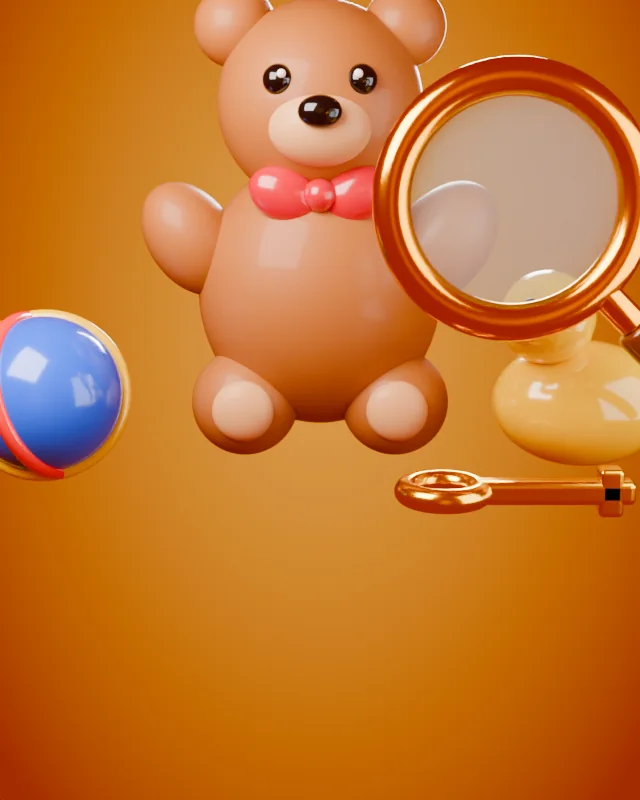
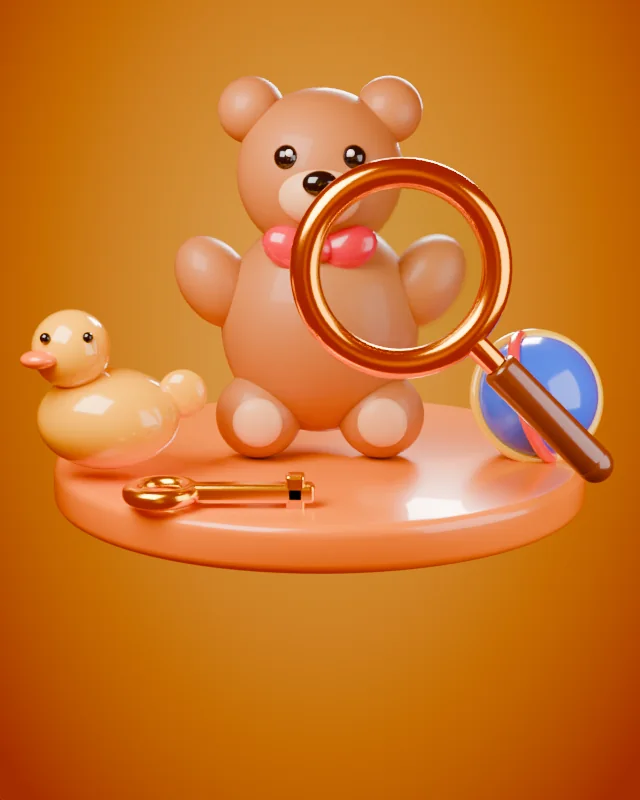
Covers: more renders (work in progress)
Claude-Session: https://claude.ai/code/session_01MHknEQHwoRP7PDrNv3vHVE

diff --git a/tools/covers/farm.py b/tools/covers/farm.py
@@ -1,0 +1,79 @@
+import sys, os
+sys.path.insert(0, os.path.dirname(os.path.abspath(__file__)))
+from rig import *
+S = int(os.environ.get('SAMPLES', 128))
+new_scene('#fff7b0', '#6fdc4a', samples=S)
+grass = glossy('#58d23c', 0.45, 0.4); dirt = glossy('#8a5a35', 0.5, 0.2)
+red = glossy('#e0302c', 0.2, 0.7); white = glossy('#fbf8f0', 0.3, 0.5); black = glossy('#23252b', 0.45, 0.3)
+yel = glossy('#ffc81e', 0.25, 0.6); glass = glossy('#8fd3ff', 0.05, 0.9); pink = glossy('#ffa9b8', 0.35, 0.4)
+roofm = glossy('#8c3a22', 0.3, 0.4); stem = glossy('#2f9a2b', 0.4, 0.3); brown = glossy('#6b3f1d', 0.5, 0.3)
+wheat = glossy('#f0c040', 0.4, 0.4); grey = glossy('#dfe6ee', 0.25, 0.6)
+objs = []
+objs.append(cylinder(3.5, 0.5, grass, (0, 0, -0.25), bevel=0.22, seg=96))
+objs.append(cylinder(3.35, 0.7, dirt, (0, 0, -0.8), bevel=0.15, seg=96))
+# barn
+b = []
+b.append(box((2.2, 1.7, 1.5), red, (0, 0, 0.75), bevel=0.06))
+roof_l = box((2.5, 1.2, 0.18), roofm, (0, -0.5, 1.75), rot=(40, 0, 0), bevel=0.03)
+roof_r = box((2.5, 1.2, 0.18), roofm, (0, 0.5, 1.75), rot=(-40, 0, 0), bevel=0.03)
+b += [roof_l, roof_r]
+b.append(box((0.9, 0.06, 1.0), white, (0, -0.87, 0.5), bevel=0.03))
+b.append(box((0.75, 0.04, 0.85), red, (0, -0.9, 0.5), bevel=0.02))
+for sx in (-1, 1):
+    b.append(box((0.08, 0.04, 1.0), white, (0, -0.92, 0.5), rot=(0, 0, 0), bevel=0.01))
+b.append(box((0.95, 0.06, 0.08), white, (0, -0.93, 0.5), rot=(0, 35, 0), bevel=0.01))
+b.append(box((0.95, 0.06, 0.08), white, (0, -0.93, 0.5), rot=(0, -35, 0), bevel=0.01))
+b.append(cylinder(0.2, 0.06, white, (0, -0.9, 1.3), rot=(90, 0, 0), bevel=0.02))
+silo = [cylinder(0.5, 2.0, grey, (1.7, 0.4, 1.0)), sphere(0.5, grey, (1.7, 0.4, 2.0), scale=(1, 1, 0.8))]
+objs.append(parent(b, loc=(-0.6, 1.4, 0), rot=(0, 0, 0)))
+objs.append(parent(silo))
+# tractor
+t = []
+t.append(box((1.3, 0.7, 0.45), red, (0.2, 0, 0.6), bevel=0.1))
+t.append(box((0.55, 0.62, 0.35), red, (0.75, 0, 0.9), bevel=0.1))
+t.append(box((0.65, 0.66, 0.65), glass, (-0.35, 0, 1.05), bevel=0.1))
+t.append(box((0.8, 0.8, 0.1), red, (-0.35, 0, 1.45), bevel=0.04))
+t.append(cylinder(0.04, 0.4, grey, (1.0, 0, 1.25), bevel=0.0))
+for sy in (-1, 1):
+    t.append(cylinder(0.62, 0.3, black, (-0.45, sy*0.55, 0.62), rot=(90, 0, 0), bevel=0.08))
+    t.append(cylinder(0.32, 0.32, yel, (-0.45, sy*0.55, 0.62), rot=(90, 0, 0), bevel=0.04))
+    t.append(cylinder(0.38, 0.24, black, (0.85, sy*0.45, 0.38), rot=(90, 0, 0), bevel=0.06))
+    t.append(cylinder(0.2, 0.26, yel, (0.85, sy*0.45, 0.38), rot=(90, 0, 0), bevel=0.03))
+objs.append(parent(t, loc=(-0.5, -1.5, 0.0), rot=(0, 0, -25), scale=1.2))
+# cow
+c = []
+c.append(box((1.1, 0.65, 0.65), white, (0, 0, 0.85), bevel=0.2))
+c.append(box((0.5, 0.5, 0.48), white, (0.7, 0, 1.05), bevel=0.14))
+c.append(box((0.3, 0.45, 0.2), pink, (0.97, 0, 0.95), bevel=0.08))
+for sy in (-1, 1):
+    c.append(sphere(0.07, black, (1.2, sy*0.12, 1.02)))
+    c.append(sphere(0.08, black, (0.9, sy*0.15, 1.27), scale=(1, 1, 1)))
+    c.append(cone(0.07, 0.0, 0.22, white, (0.65, sy*0.28, 1.4)))
+    c.append(box((0.22, 0.07, 0.14), pink, (0.65, sy*0.3, 1.13), bevel=0.03))
+for x in (-0.38, 0.38):
+    for sy in (-1, 1):
+        c.append(cylinder(0.1, 0.55, white, (x, sy*0.22, 0.3), bevel=0.03))
+        c.append(cylinder(0.11, 0.1, black, (x, sy*0.22, 0.05), bevel=0.02))
+c.append(sphere(0.2, black, (-0.2, 0.3, 1.0), scale=(1.3, 0.5, 1)))
+c.append(sphere(0.18, black, (0.2, -0.3, 1.1), scale=(1.2, 0.5, 1)))
+c.append(sphere(0.16, black, (-0.3, -0.3, 1.1), scale=(1.0, 0.5, 1)))
+c.append(cylinder(0.025, 0.5, black, (-0.62, 0, 0.9), rot=(0, 30, 0)))
+objs.append(parent(c, loc=(1.9, -1.4, 0), rot=(0, 0, -150), scale=1.1))
+# sunflowers
+def sunflower(x, y, h):
+    f = [cylinder(0.05, h, stem, (0, 0, h/2), bevel=0.0, seg=16)]
+    for i in range(12):
+        a = i * math.pi / 6
+        f.append(sphere(0.2, yel, (math.cos(a)*0.32, 0, h + math.sin(a)*0.32), scale=(0.6, 0.25, 1), rot=(0, -math.degrees(a)+90 if False else 0, 0)))
+        f[-1].rotation_euler = (0, -a + math.pi/2, 0)
+    f.append(cylinder(0.24, 0.14, brown, (0, -0.05, h), rot=(90, 0, 0), bevel=0.04))
+    return parent(f, loc=(x, y, 0), rot=(0, 0, 0))
+for x, y, h in [(-2.5, 0.2, 1.9), (-2.0, -0.6, 1.5), (2.5, -0.1, 1.7)]:
+    objs.append(sunflower(x, y, h))
+# wheat
+for i in range(14):
+    x = -2.7 + (i % 7) * 0.12 + (0.0); y = -1.0 + (i // 7)*0.15 - 1.2
+    objs.append(cylinder(0.025, 0.9, wheat, (x - 0.2, y, 0.45), bevel=0, seg=8))
+    objs.append(sphere(0.07, wheat, (x - 0.2, y, 0.95), scale=(1, 1, 2.2), seg=16))
+parent(objs, loc=(0, 0, 0.35), rot=(16, 0, 0), scale=0.74)
+render('farm')

diff --git a/tools/covers/naval.py b/tools/covers/naval.py
@@ -6,7 +6,7 @@ new_scene('#1f8fd0', '#04122e', samples=S)
 water = glossy('#0f5fb5', 0.12, 0.9); foam = glossy('#eaf6ff', 0.3, 0.3)
 grey = glossy('#8d9bb0', 0.28, 0.6); dgrey = glossy('#5b677c', 0.3, 0.5)
 red = glossy('#d63a3a', 0.25, 0.6); steel = metal('#2c3340', 0.25)
-cy = emit('#35e6ff', 4.0); white = glossy('#f4f6fa', 0.3, 0.5); yel = glossy('#ffc22e', 0.3, 0.5)
+cy = emit('#35e6ff', 1.6); white = glossy('#f4f6fa', 0.3, 0.5); yel = glossy('#ffc22e', 0.3, 0.5)
 objs = []
 objs.append(cylinder(3.3, 0.9, water, (0, 0, -0.45), bevel=0.25))
 objs.append(torus(3.0, 0.06, cy, (0, 0, 0.0)))
@@ -16,10 +16,8 @@ for a in (0, 90):
     objs.append(box((6.0 if a == 0 else 0.06, 0.06 if a == 0 else 6.0, 0.03), cy, (0, 0, 0.0), bevel=0.0))
 def ship(x, y, ang, sc, hullc, big=True):
     p = []
-    p.append(sphere(1, hullc, (0, 0, 0.1), scale=(1.9, 0.62, 0.45)))
-    p.append(cone(0.55, 0.0, 0.9, hullc, (1.95, 0, 0.1), rot=(0, 90, 0), scale=(1, 1, 1)))
-    p[-1].scale = (1, 1.0, 0.8)
-    p.append(box((2.6, 0.9, 0.12), dgrey, (0, 0, 0.45), bevel=0.04))
+    p.append(sphere(1, hullc, (0, 0, 0.1), scale=(2.3, 0.66, 0.5)))
+    p.append(box((2.9, 0.78, 0.12), dgrey, (0, 0, 0.5), bevel=0.04))
     p.append(box((0.9, 0.62, 0.45), white, (-0.5, 0, 0.8), bevel=0.08))
     p.append(box((0.5, 0.5, 0.35), white, (-0.5, 0, 1.2), bevel=0.08))
     p.append(box((0.62, 0.55, 0.08), steel, (-0.5, 0, 1.43), bevel=0.02))
@@ -28,11 +26,11 @@ def ship(x, y, ang, sc, hullc, big=True):
     for tx in (0.9, 1.5):
         p.append(cylinder(0.3, 0.2, grey, (tx, 0, 0.62), bevel=0.05))
         p.append(cylinder(0.07, 0.8, steel, (tx + 0.5, 0.0, 0.68), rot=(0, 90, 0), bevel=0.0))
-    p.append(box((2.9, 0.1, 0.1), red, (0, 0.62, 0.32), bevel=0.03))
+    p.append(box((3.2, 0.1, 0.12), red, (0, 0.62, 0.22), bevel=0.03))
     e = parent(p, loc=(x, y, 0), rot=(0, 0, ang), scale=sc)
-    return p
-objs += ship(-0.5, -0.9, -15, 0.95, grey)
-objs += ship(0.8, 1.2, 8, 0.7, glossy('#a05c3a', 0.3, 0.5))
+    return e
+objs.append(ship(-0.4, -0.9, -12, 1.25, grey))
+objs.append(ship(0.9, 1.3, 6, 0.85, glossy('#a05c3a', 0.3, 0.5)))
 # splash: foam spheres + droplets
 import random; random.seed(3)
 for i in range(14):
@@ -40,5 +38,5 @@ for i in range(14):
     objs.append(sphere(random.uniform(0.1, 0.25), foam, (-2.3 + math.cos(a)*r, -1.7 + math.sin(a)*r*0.6, random.uniform(0.1, 0.9))))
 objs.append(torus(0.7, 0.12, foam, (-2.3, -1.7, 0.05)))
 objs.append(cone(0.3, 0.05, 1.2, foam, (-2.3, -1.7, 0.6)))
-parent(objs, loc=(0, 0, 0.8), rot=(24, 0, -8), scale=0.62)
+parent(objs, loc=(0, 0, 0.8), rot=(24, 0, -8), scale=0.66)
 render('naval')

diff --git a/tools/covers/props.py b/tools/covers/props.py
@@ -6,16 +6,7 @@ def magnifier(scale=1.0, loc=(0, 0, 0), rot=(0, 0, 0), frame='#ffb020', handle='
     """Magnifier standing in XZ plane (facing -Y). Lens centre at local origin, handle goes down-right."""
     parts = []
     parts.append(torus(1.0, 0.16, metal(frame, 0.18, name='mag_frame'), rot=(90, 0, 0)))
-    g = bpy.data.materials.new('lens')
-    g.use_nodes = True
-    b = g.node_tree.nodes['Principled BSDF']
-    b.inputs['Base Color'].default_value = (*lens_tint, 1)
-    b.inputs['Roughness'].default_value = 0.02
-    for k in ('Transmission Weight', 'Transmission'):
-        if k in b.inputs:
-            b.inputs[k].default_value = 0.9
-            break
-    b.inputs['IOR'].default_value = 1.15
+    g = glass_material(lens_tint)
     lens = sphere(1.0, g, scale=(1, 0.08, 1))
     parts.append(lens)
     import math as m
@@ -31,3 +22,38 @@ def magnifier(scale=1.0, loc=(0, 0, 0), rot=(0, 0, 0), frame='#ffb020', handle='
     parts.append(h)
     parts.append(sphere(0.2, hm, loc=(d[0] * 2.95, 0, d[2] * 2.95)))
     return parent(parts, loc=loc, rot=rot, scale=scale)
+
+
+def glass_material(tint=(0.8, 0.95, 1.0), ior=1.08, name='lens'):
+    g = bpy.data.materials.new(name)
+    g.use_nodes = True
+    nt = g.node_tree
+    nt.nodes.clear()
+    out = nt.nodes.new('ShaderNodeOutputMaterial')
+    gl = nt.nodes.new('ShaderNodeBsdfGlass')
+    gl.inputs['Color'].default_value = (*tint, 1)
+    gl.inputs['Roughness'].default_value = 0.0
+    gl.inputs['IOR'].default_value = ior
+    tr = nt.nodes.new('ShaderNodeBsdfTransparent')
+    mix = nt.nodes.new('ShaderNodeMixShader')
+    mix.inputs['Fac'].default_value = 0.35
+    nt.links.new(tr.outputs[0], mix.inputs[1])
+    nt.links.new(gl.outputs[0], mix.inputs[2])
+    nt.links.new(mix.outputs[0], out.inputs['Surface'])
+    return g
+
+
+def fit(scale=1.0, dz=0.0, dx=0.0):
+    """Scale/shift everything built so far (not lights/camera) as one hero group, about the origin."""
+    objs = [o for o in bpy.context.scene.objects if o.type not in ('LIGHT', 'CAMERA') and o.parent is None]
+    e = bpy.data.objects.new('hero_grp', None)
+    bpy.context.scene.collection.objects.link(e)
+    for o in objs:
+        o.parent = e
+    e.scale = (scale,) * 3
+    e.location = (dx, 0, dz)
+    return e
+
+
+def podium(color, r=3.3, h=0.5, z=0.0, rough=0.3):
+    return cylinder(r, h, glossy(color, rough, 0.5, name='podium'), loc=(0, 0, z - h / 2), bevel=0.12, seg=96)

diff --git a/tools/covers/findit.py b/tools/covers/findit.py
@@ -29,26 +29,28 @@ sphere(0.15, bow, loc=(0, -0.78, z0 + 0.95))
 
 # toys: ball, duck, key
 ball = glossy('#2f6bff', 0.2, 0.8, name='ball')
-b = sphere(0.7, ball, loc=(-2.45, -1.0, 0.7))
+b = sphere(0.7, ball, loc=(2.5, -0.3, 0.7))
 for ang, col in ((0, '#ffd21f'), (120, '#ff3b3b')):
     pass
-band = torus(0.7, 0.07, glossy('#ffd21f', 0.2, 0.8, name='bandy'), loc=(-2.45, -1.0, 0.7), rot=(70, 20, 0))
-band2 = torus(0.7, 0.07, glossy('#ff3b3b', 0.2, 0.8, name='bandr'), loc=(-2.45, -1.0, 0.7), rot=(20, 70, 0))
+band = torus(0.72, 0.07, glossy('#ffd21f', 0.2, 0.8, name='bandy'), loc=(2.5, -0.3, 0.7), rot=(70, 20, 0))
+band2 = torus(0.72, 0.07, glossy('#ff3b3b', 0.2, 0.8, name='bandr'), loc=(2.5, -0.3, 0.7), rot=(20, 70, 0))
 # duck
-yel = glossy('#ffd21f', 0.2, 0.8, name='duck')
+yel = glossy('#ffbd00', 0.2, 0.8, name='duck')
 org = glossy('#ff7a1a', 0.2, 0.8, name='beak')
-dx, dy = 2.3, -1.1
+dx, dy = -2.3, -1.2
 sphere(0.65, yel, loc=(dx, dy, 0.65), scale=(1.2, 1, 0.85))
 sphere(0.42, yel, loc=(dx - 0.35, dy - 0.2, 1.45))
-sphere(0.3, yel, loc=(dx + 0.8, dy, 0.9), scale=(0.9, 0.5, 0.9))
+sphere(0.3, yel, loc=(dx + 0.8, dy + 0.1, 0.9), scale=(0.9, 0.5, 0.9))
 sphere(0.2, org, loc=(dx - 0.62, dy - 0.55, 1.4), scale=(1, 1, 0.5))
 sphere(0.06, dark, loc=(dx - 0.55, dy - 0.55, 1.62))
 sphere(0.06, dark, loc=(dx - 0.12, dy - 0.5, 1.62))
 # key
 kc = metal('#ffcf3a', 0.2, name='key')
-torus(0.3, 0.1, kc, loc=(1.0, -2.2, 0.15), rot=(0, 0, 0))
-box((1.3, 0.2, 0.2), kc, loc=(1.9, -2.2, 0.15), bevel=0.05)
-box((0.2, 0.2, 0.4), kc, loc=(2.35, -2.2, 0.15), bevel=0.04)
+torus(0.3, 0.1, kc, loc=(-1.6, -2.4, 0.15), rot=(0, 0, 0))
+box((1.3, 0.2, 0.2), kc, loc=(-0.7, -2.4, 0.15), bevel=0.05)
+box((0.2, 0.2, 0.4), kc, loc=(-0.25, -2.4, 0.15), bevel=0.04)
 # magnifier in front
-magnifier(0.95, loc=(1.5, -2.3, 2.5), ang=-45)
+magnifier(0.95, loc=(0.8, -2.3, 2.4), ang=-45)
+podium('#ff8a1e', 3.1)
+fit(0.82, -0.05)
 render('findit')

diff --git a/tools/covers/wordsearch.py b/tools/covers/wordsearch.py
@@ -1,0 +1,36 @@
+import os, sys
+sys.path.insert(0, os.path.dirname(__file__))
+from props import *
+
+new_scene('#6f7dff', '#161b78', samples=int(os.environ.get('S', 96)))
+N = 5
+T, GAP = 0.78, 0.1
+grid = ["JMTEO", "ROGSA", "UPAVL", "BIEAR", "CDNLK"]
+word_cells = {(0, 0), (1, 1), (2, 2), (3, 3), (4, 4)}   # diagonal J-O-G-A-R (row, col): letters set below
+letters = [list(r) for r in grid]
+for i, ch in enumerate("JOGAR"):
+    letters[i][i] = ch
+tile = glossy('#f3f5ff', 0.25, 0.6, name='tile')
+hi = glossy('#ffc21a', 0.2, 0.8, name='tile_hi')
+ink = glossy('#2a2fa8', 0.3, 0.6, name='ink')
+ink_hi = glossy('#6a2a00', 0.3, 0.6, name='ink_hi')
+pitch = T + GAP
+objs = []
+for r in range(N):
+    for c in range(N):
+        x = (c - (N - 1) / 2) * pitch
+        z = ((N - 1) / 2 - r) * pitch
+        h = (r, c) in word_cells
+        b = box((T, T, T), hi if h else tile, loc=(x, 0, z), bevel=0.14)
+        t = text(letters[r][c], ink_hi if h else ink, size=0.5, extrude=0.05, loc=(x, -T / 2 - 0.005, z), rot=(90, 0, 0), bevel=0.012)
+        objs += [b, t]
+        if h:   # raise highlighted tiles toward the viewer
+            b.location.y -= 0.18
+            t.location.y -= 0.18
+slab = box((N * pitch + 0.35, 0.5, N * pitch + 0.35), glossy('#3a45d6', 0.3, 0.6, name='slab'), loc=(0, 0.6, 0), bevel=0.22)
+objs.append(slab)
+parent(objs, loc=(0, 0, 1.9), rot=(-6, 14, -8))
+podium('#2a31b8', 3.0, 0.5, z=-0.35)
+magnifier(0.85, loc=(0.7, -2.3, 1.2), ang=-62)
+fit(0.82, 0.05)
+render('wordsearch')

diff --git a/tools/covers/flags.py b/tools/covers/flags.py
@@ -4,11 +4,12 @@ from rig import *
 from globe import globe_material
 subprocess.check_call(['python3', '-I', os.path.join(os.path.dirname(os.path.abspath(__file__)), 'flagstrip.py')], env=dict(os.environ))
 new_scene('#2f8cff', '#04163f', samples=int(os.environ.get('SAMPLES', 128)))
-Z = 1.25
-sphere(1.55, globe_material(ocean='#1250c8', thresh=0.47), loc=(0, 0, Z))
+Z = 1.35
+sphere(1.7, globe_material(ocean='#1250c8', thresh=0.53), loc=(0, 0, Z))
 strip = image_material(os.path.join(TMP, 'flagstrip.png'), rough=0.5, coat=0.15)
 from mathutils import Euler
-def band(R, h, rot, off):
+from mathutils import Matrix
+def band(R, h, rot, off, spin=0):
     bpy.ops.mesh.primitive_cylinder_add(radius=R, depth=h, vertices=128, end_fill_type='NOTHING')
     o = bpy.context.active_object
     o.data.materials.append(strip)
@@ -18,9 +19,9 @@ def band(R, h, rot, off):
     e = Euler(tuple(math.radians(r) for r in rot))
     ax = e.to_matrix() @ Vector((0, 0, 1))
     o.location = Vector((0, 0, Z)) + ax * off
-    o.rotation_euler = e
+    o.rotation_euler = (e.to_matrix() @ Matrix.Rotation(math.radians(spin), 3, 'Z')).to_euler()
     return o
-band(1.46, 0.66, (-12, -18, 0), 0.62)
-band(1.46, 0.66, (-12, -18, 0), -0.68)
+band(1.5, 0.6, (-12, -18, 0), 0.98)
+band(1.5, 0.6, (-12, -18, 0), -0.98, 150)
 shadow_catcher(0.0)
 render('flags')
